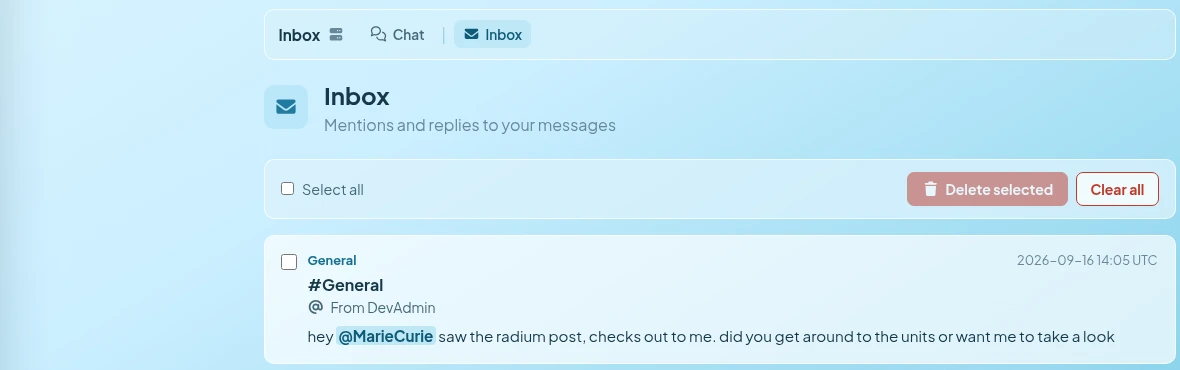
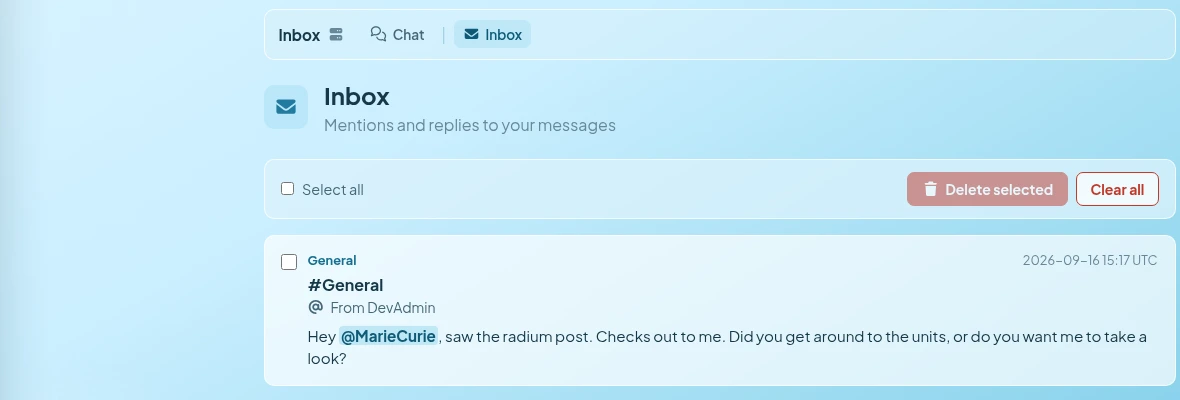
Punctuate the Homework Central page and its chat screenshots properly
Two fixes: the page's own prose used em dashes throughout, which render
noticeably fuzzy in this font stack at body-text weight and blur the UI.
Every em dash in the visible page text (not the <title> tag, which follows
the same convention as every other project page) is rewritten as a period,
colon, comma, or parenthetical instead.

The demo chat messages inside the screenshots had the same problem in the
other direction: lowercase, no closing punctuation. Reposted all three
("Morning! Anyone else up this early, lol.", the radium-decay message, and
DevAdmin's reply) with normal capitalization and end-of-sentence punctuation,
then recaptured images/hc-chat.webp and images/hc-inbox-mention.webp against
the same local run.

Verified on the rendered page: both figures load, keep their intrinsic
ratio, and cause 0px overflow at 320/768/1440; contrast AA throughout;
headings in order on all eight pages; 197 icons still clean; no orphan CSS.

Claude-Session: https://claude.ai/code/session_01GQjVoXcZG4wnJw6Rr9oLPA

diff --git a/projects/homework-central/index.html b/projects/homework-central/index.html
@@ -19,7 +19,7 @@
         <p class="kicker">Lead · Jun 2026 – present</p>
         <h1>Homework Central</h1>
         <p class="lede">
-          A community platform for people to collaborate on each other’s education — and the
+          A community platform for people to collaborate on each other’s education, and the
           replacement for a 16,000-member Discord. I own the architecture: API, frontend,
           permissions, moderation, and the one-command local stack.
         </p>
@@ -52,32 +52,32 @@
           />
           <figcaption>
             Captured 16 Sep 2026 from a local run at commit <code>d3e7878</code>. Every message
-            shown was written for this capture, not organic chat content — MarieCurie posted the
-            first two, DevAdmin the third. The accounts are the repository’s own development seed
-            data, not real members: each developer persona provisions its own tenant database,
-            which is the isolation this page describes.
+            shown was written for this capture, not organic chat content: MarieCurie posted the
+            first two, and DevAdmin posted the third. The accounts are the repository’s own
+            development seed data, not real members. Each developer persona provisions its own
+            tenant database, which is the isolation this page describes.
           </figcaption>
         </figure>
         <p>
-          That <code>@mention</code> is a real, resolved one, not just styled text — it went
+          That <code>@mention</code> is a real, resolved one, not just styled text. It went
           through the API, matched a recipient, and created a notification MarieCurie can read in
           her own inbox below. Getting there surfaced a real edge of the isolation above: two
           ordinary personas can only notify each other inside the same tenant database, and each
-          persona here is the sole user of its own, so only DevAdmin — the developer-tools admin
+          persona here is the sole user of its own. Only DevAdmin (the developer-tools admin
           account, a real login rather than a persona, which the notify policy lets reach every
-          tenant — could actually ping her.
+          tenant) could actually ping her.
         </p>
         <figure class="shot">
           <img
             src="/images/hc-inbox-mention.webp"
             alt="Homework Central's inbox signed in as MarieCurie: one entry under General from DevAdmin, with the message text and an @MarieCurie mention highlighted, timestamped in UTC."
             width="1180"
-            height="370"
+            height="400"
             loading="lazy"
           />
           <figcaption>
-            Same run, commit <code>d3e7878</code>, 16 Sep 2026 — the notification the message
-            above created, read from MarieCurie’s own inbox.
+            Same run, commit <code>d3e7878</code>, 16 Sep 2026. This is the notification the
+            message above created, read from MarieCurie’s own inbox.
           </figcaption>
         </figure>
       </section>
@@ -104,8 +104,8 @@
           <strong>Bitmask authorization.</strong> PR #4 (28 Jun 2026) implemented the MVP after
           a conventional RBAC login (#3). Roles and room rights are packed into masks so a
           check is a bitwise test, not a join-heavy policy walk. Later PRs (#25–#26) had to
-          fix custom role masks, category merge, and infrastructure permissions — evidence the
-          model is in live use, not a sketch.
+          fix custom role masks, category merge, and infrastructure permissions. That is evidence
+          the model is in live use, not a sketch.
         </p>
         <p>
           <strong>Tenant isolation for developers.</strong> #7 added <code>/devlogin</code>;
@@ -133,8 +133,8 @@
           September, and open branches for memory optimization (Rust LRU with C# fallback) and
           a safer Postgres reset that must not wipe Ollama, uploads, or MinIO. The product is
           mid-migration, not archived. Below is that neural-net branch actually running: a
-          two-stage cascade — a small context router feeding a much larger evidence-and-category
-          model — that scores chat messages for moderation and tutoring, visualized as the
+          two-stage cascade (a small context router feeding a much larger evidence-and-category
+          model) that scores chat messages for moderation and tutoring, visualized as the
           architecture really is, node for node and edge for edge.
         </p>
         <figure class="shot">
@@ -147,12 +147,12 @@
           />
           <figcaption>
             Captured 23 Jul 2026 at commit <code>59e153d</code> on the unmerged
-            <code>cursor/training-speed-c7b9</code> branch, signed in as DevAdmin — the only
+            <code>cursor/training-speed-c7b9</code> branch, signed in as DevAdmin, the only
             account with the <code>ManageServerInfrastructure</code> permission this page
             requires. This shows the real, initialized architecture, not a trained result:
             generating training examples calls a local Ollama model this environment doesn’t
-            have, so no training pass was run here. The database is seeded but otherwise empty —
-            12 approved examples, 0 pending feedback — which is what a fresh install of this
+            have, so no training pass was run here. The database is seeded but otherwise empty:
+            12 approved examples, 0 pending feedback, which is what a fresh install of this
             branch actually looks like.
           </figcaption>
         </figure>
